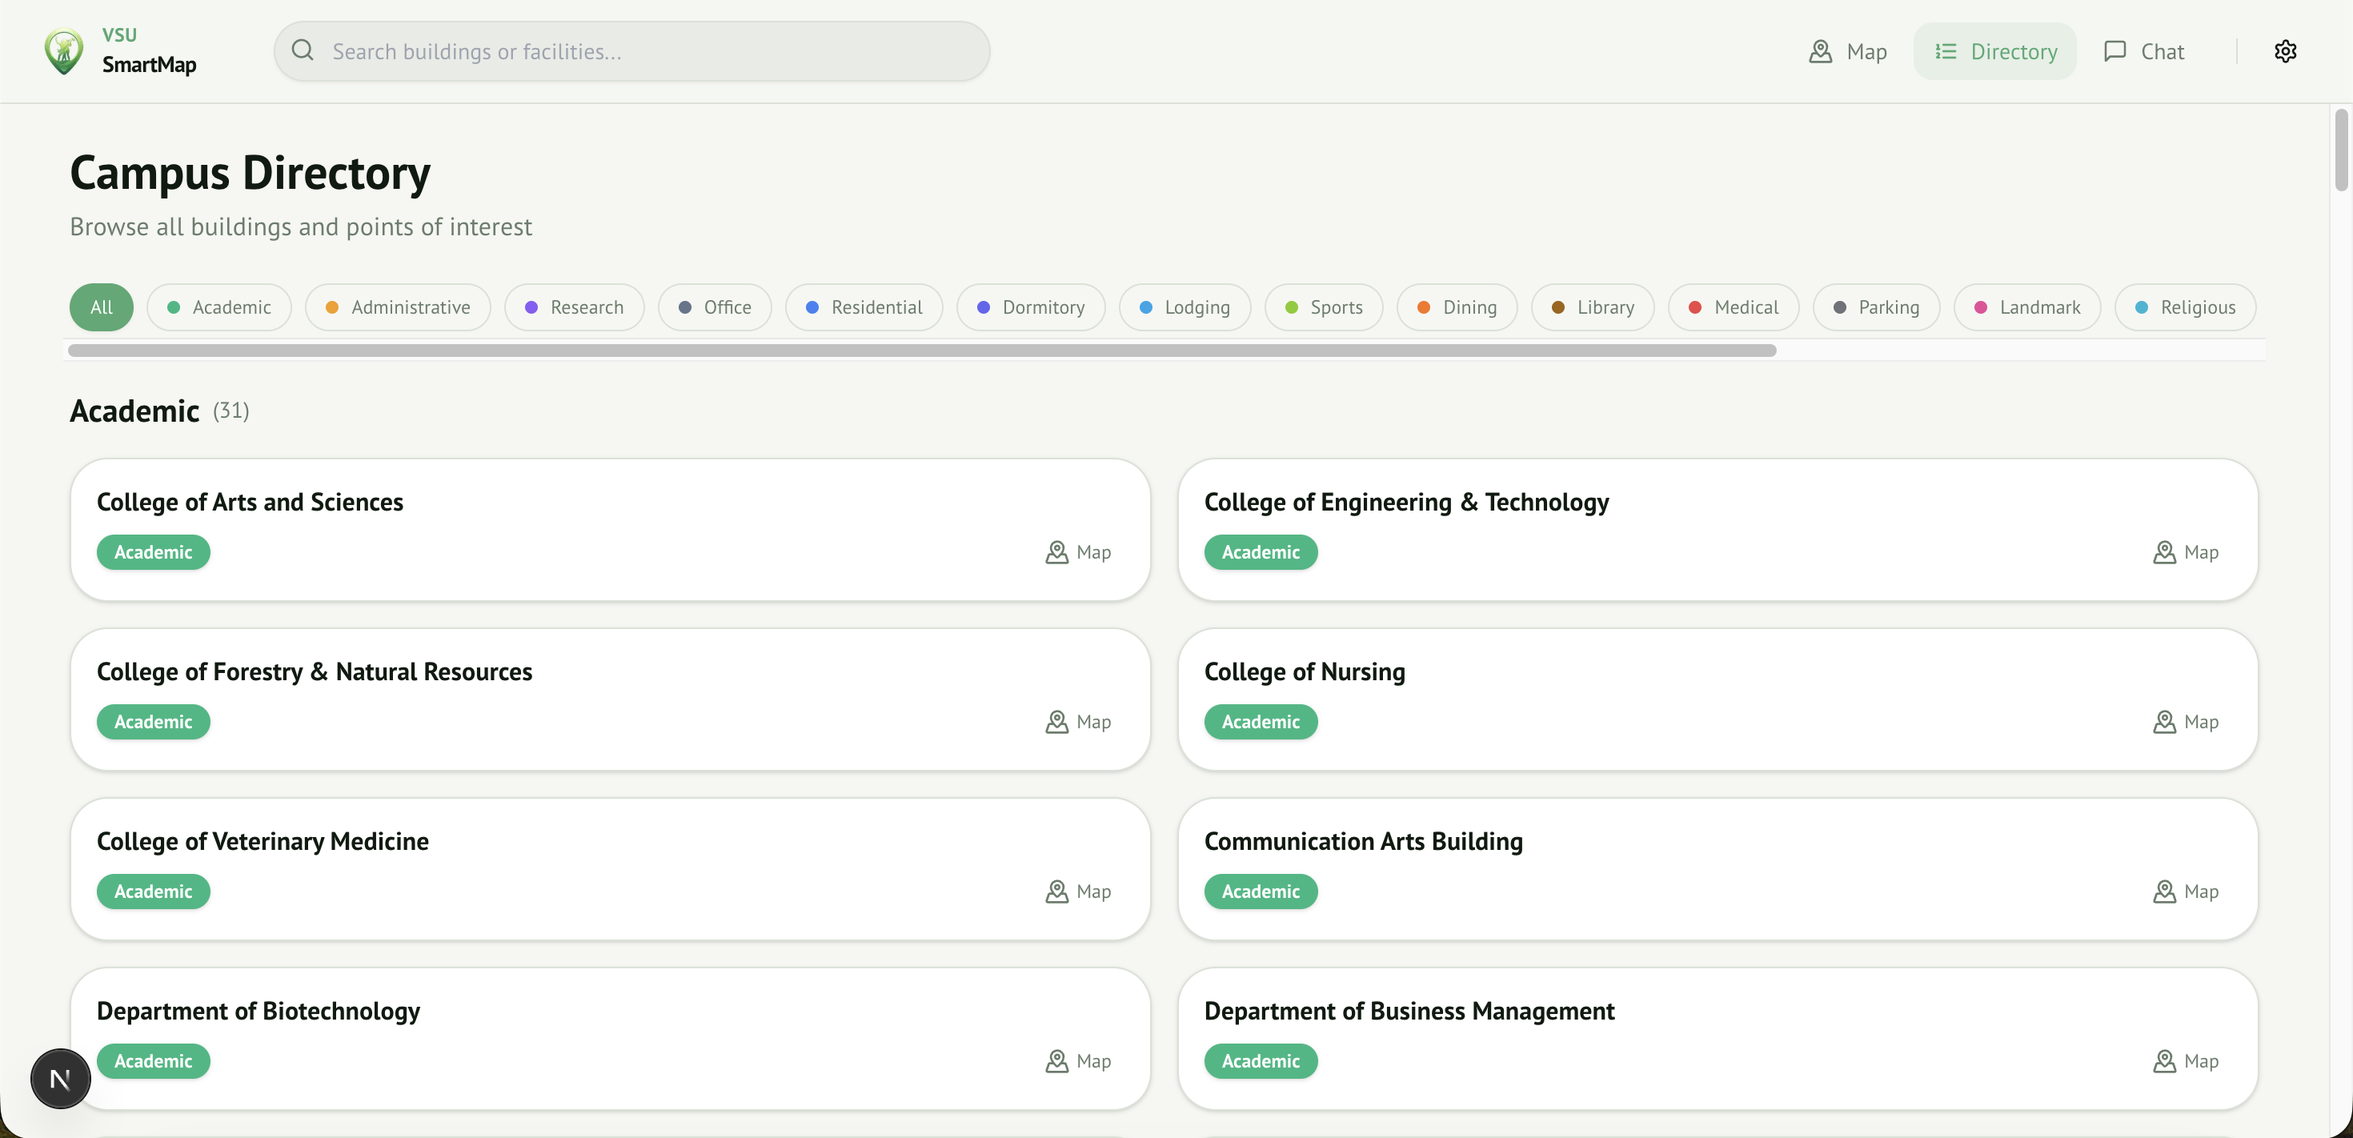
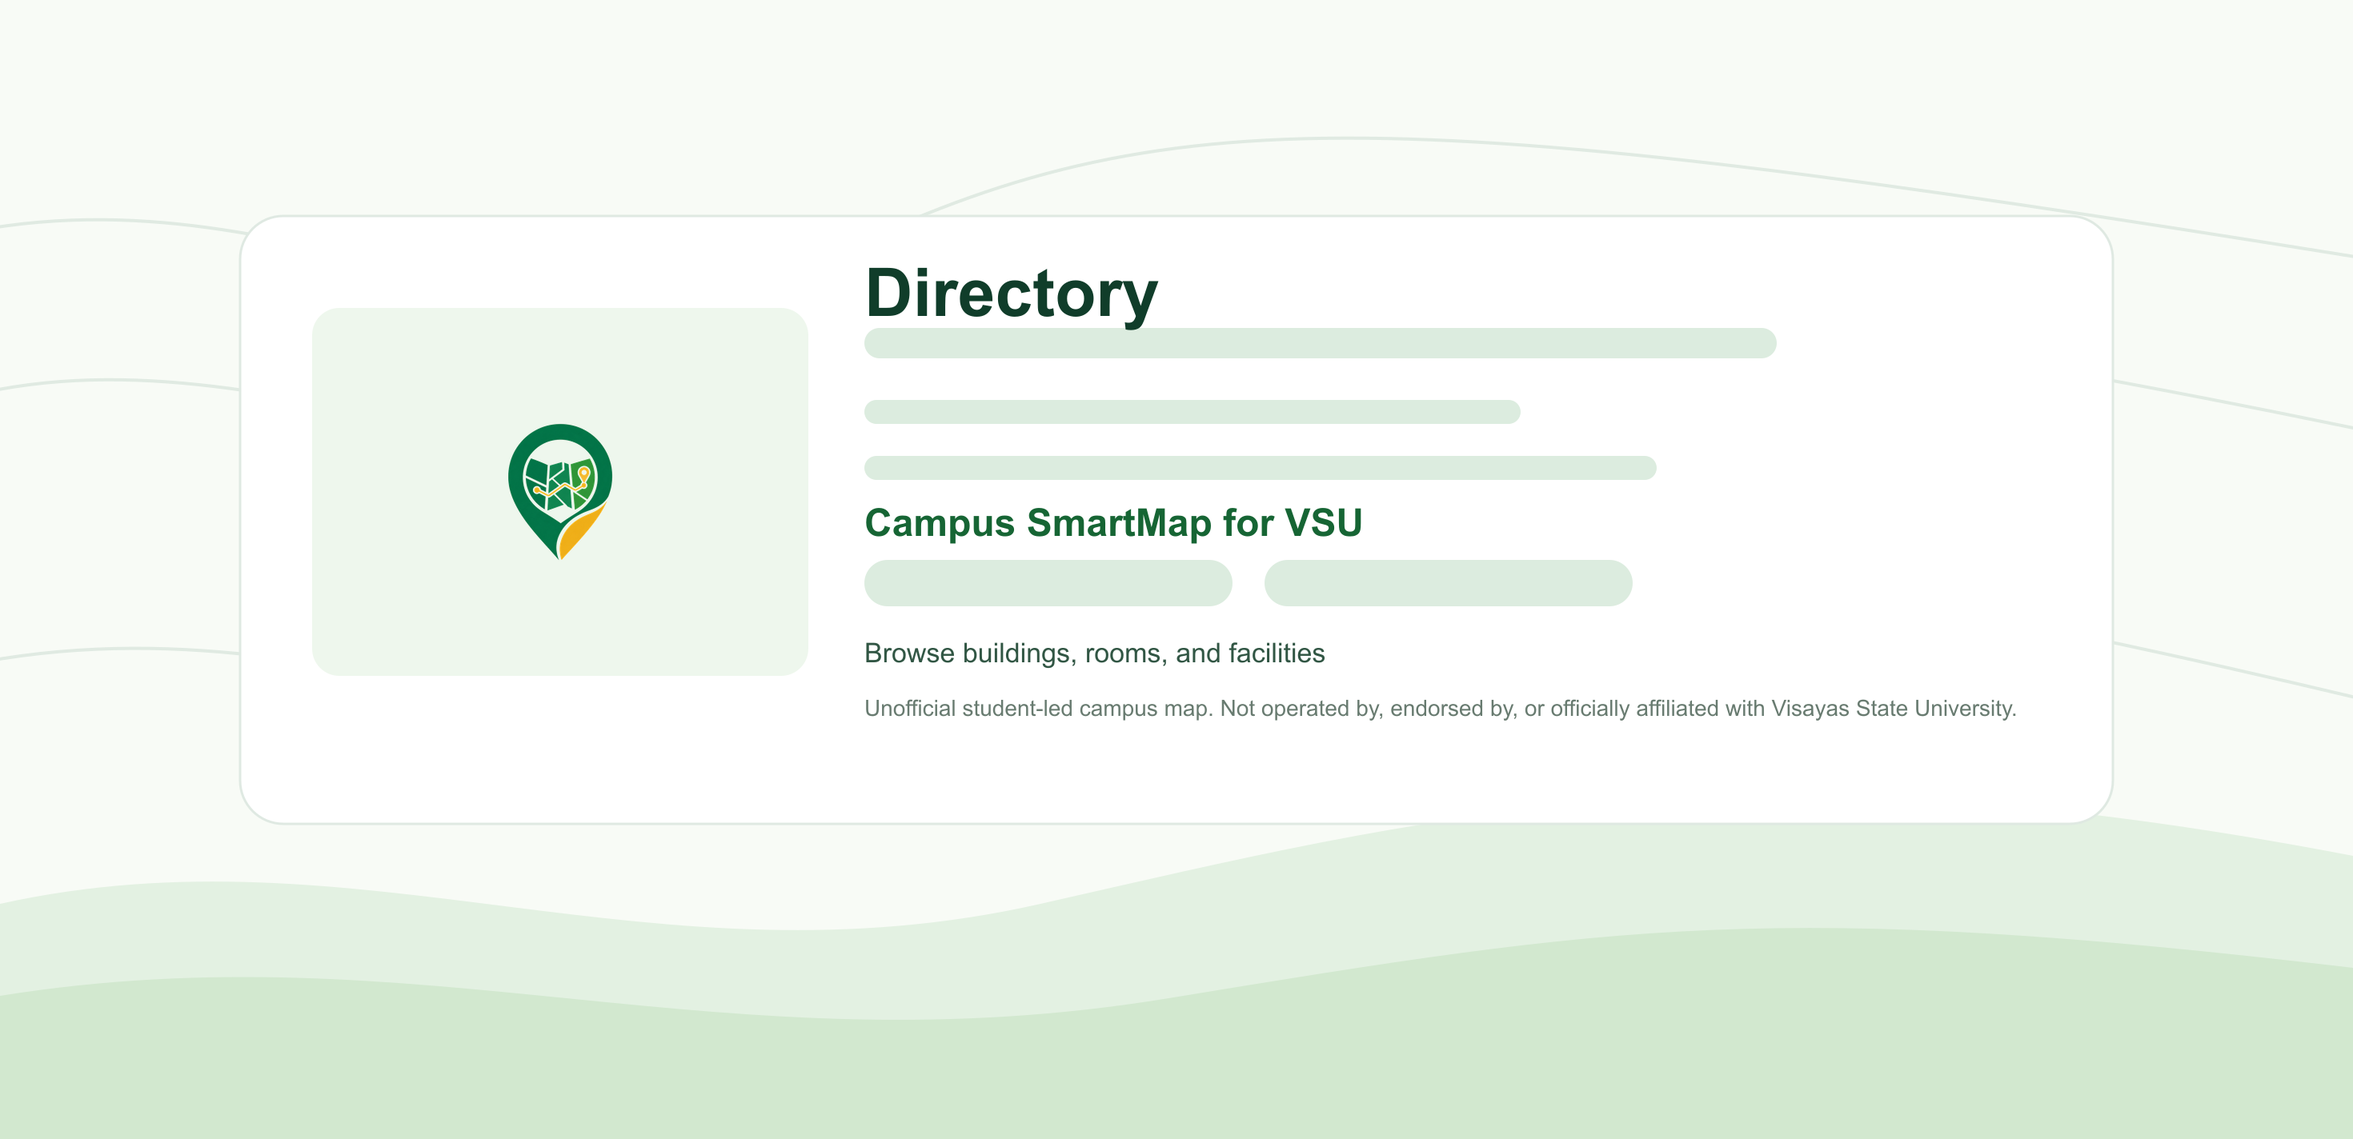
chore: clarify unofficial campus branding

diff --git a/app/(student)/info/page.tsx b/app/(student)/info/page.tsx
@@ -4,8 +4,8 @@ import { ScrollArea } from "@/components/ui/scroll-area";
 import { Mail, Github } from "lucide-react";
 
 export const metadata = {
-  title: "Information | VSU SmartMap",
-  description: "About VSU SmartMap, FAQ, Terms, and Privacy Policy.",
+  title: "Information | Campus SmartMap for VSU",
+  description: "About Campus SmartMap for VSU, FAQ, Terms, and Privacy Policy.",
 };
 
 export default function InfoPage() {
@@ -14,7 +14,7 @@ export default function InfoPage() {
       <div className="space-y-4 text-center">
         <h1 className="text-3xl font-bold tracking-tighter md:text-4xl">Information Hub</h1>
         <p className="mx-auto max-w-[700px] text-muted-foreground">
-          Learn more about the VSU SmartMap project, our mission, and legal policies.
+          Learn more about this unofficial campus map project, its purpose, and legal policies.
         </p>
       </div>
 
@@ -33,16 +33,16 @@ export default function InfoPage() {
         <TabsContent value="about">
           <Card>
             <CardHeader>
-              <CardTitle>About VSU SmartMap</CardTitle>
+              <CardTitle>About Campus SmartMap</CardTitle>
               <CardDescription>
                 Navigating Visayas State University made easy.
               </CardDescription>
             </CardHeader>
             <CardContent className="space-y-4 text-sm leading-relaxed text-muted-foreground">
               <p>
-                VSU SmartMap is a dedicated campus navigation and facility management system designed
-                specifically for the Visayas State University community. Our goal is to make finding
-                classrooms, offices, and amenities as simple as possible for students, faculty, and visitors.
+                Campus SmartMap for VSU is an unofficial student-led campus navigation and facility
+                management system built for the Visayas State University community. It is not an
+                official Visayas State University platform, website, or service.
               </p>
               <h3 className="text-foreground font-semibold">Key Features</h3>
               <ul className="list-disc pl-5 space-y-1">
@@ -80,7 +80,7 @@ export default function InfoPage() {
                 <div className="space-y-2">
                   <h3 className="font-semibold text-foreground">Can I use the map offline?</h3>
                   <p className="text-sm text-muted-foreground">
-                    Yes! VSU SmartMap is a Progressive Web App (PWA). Once you visit the site, map tiles and
+                    Yes! Campus SmartMap is a Progressive Web App (PWA). Once you visit the site, map tiles and
                     facility data for recent areas are cached for offline use.
                   </p>
                 </div>
@@ -96,8 +96,9 @@ export default function InfoPage() {
                 <div className="space-y-2">
                   <h3 className="font-semibold text-foreground">Is this official?</h3>
                   <p className="text-sm text-muted-foreground">
-                    This is a student-led initiative to improve campus navigation. While we aim for accuracy,
-                    please verify critical information with university officials.
+                    No. This is a student-led initiative to improve campus navigation. It is not operated by,
+                    endorsed by, or officially affiliated with Visayas State University. Please verify critical
+                    information with university officials.
                   </p>
                 </div>
               </div>
@@ -115,7 +116,7 @@ export default function InfoPage() {
             <CardContent className="space-y-4 text-sm text-muted-foreground h-[400px]">
               <ScrollArea className="h-full pr-4">
                 <p className="mb-4">
-                  Welcome to VSU SmartMap. By accessing or using our website, you agree to be bound by these terms.
+                  Welcome to Campus SmartMap for VSU. By accessing or using our website, you agree to be bound by these terms.
                 </p>
                 <h3 className="text-foreground font-semibold mb-2">1. Acceptable Use</h3>
                 <p className="mb-4">
@@ -130,7 +131,7 @@ export default function InfoPage() {
                 <h3 className="text-foreground font-semibold mb-2">3. Disclaimer</h3>
                 <p className="mb-4">
                   The map data is provided &quot;as is&quot;. We do not guarantee the absolute accuracy of locations or facility details.
-                  Always exercise personal judgment when navigating.
+                  Always exercise personal judgment when navigating. Campus SmartMap for VSU is not an official Visayas State University service.
                 </p>
                 <h3 className="text-foreground font-semibold mb-2">4. Changes to Terms</h3>
                 <p className="mb-4">

diff --git a/lib/ai/prompts/campus-assistant.ts b/lib/ai/prompts/campus-assistant.ts
@@ -1,13 +1,13 @@
 import { FACILITY_CATEGORIES } from "@/lib/types/facility";
 
-export const CAMPUS_ASSISTANT_PROMPT = `You are the **VSU SmartMap Campus Assistant**, an AI guide for the Visayas State University (VSU) main campus. Your main goal is to help students and visitors quickly find campus locations and understand where they are in relation to important landmarks.
+export const CAMPUS_ASSISTANT_PROMPT = `You are the **Campus SmartMap Assistant for VSU**, an AI guide for the Visayas State University (VSU) main campus. Your main goal is to help students and visitors quickly find campus locations and understand where they are in relation to important landmarks.
 
 ---
 
 ## 1. Core Behavior
 
 - Always prioritize **campus-related questions**: buildings, offices, classrooms, dorms, canteens, facilities, and basic campus info.
-- If the user asks about something **not related to the campus**, you may answer briefly, but gently steer the conversation back to how you can help with the VSU SmartMap.
+- If the user asks about something **not related to the campus**, you may answer briefly, but gently steer the conversation back to how you can help with Campus SmartMap.
 - Treat every query as coming from a real VSU student, visitor, or staff member who might be unfamiliar with the campus.
 
 ---
@@ -32,9 +32,10 @@ export const CAMPUS_ASSISTANT_PROMPT = `You are the **VSU SmartMap Campus Assist
 
 ## 3. Scope of Knowledge About the Project
 
-- You are part of the **VSU SmartMap Web** project.
+- You are part of the **Campus SmartMap for VSU** project.
+- This is an unofficial student-led project. Do not claim that it is operated by, endorsed by, or officially affiliated with Visayas State University.
 - If the user asks who created the project or assistant:
-  - Explain that it was created and developed by **Vj F. Mabansag**, a Third Year BS Computer Science student at **Visayas State University**.
+  - Explain that it was created and developed by **Vj F. Mabansag**, a BS Computer Science student at **Visayas State University**, as an unofficial student-led campus map.
 - You may briefly answer high-level questions about:
   - What the project does (interactive campus map + assistant).
   - Its purpose (to help students and visitors navigate the campus).
@@ -206,12 +207,12 @@ Example phrasing (Taglish):
 If the user asks:
 
 - "Ano ka?" / "What can you do?"  
-  - Explain that you are the VSU SmartMap Campus Assistant that:
+  - Explain that you are the Campus SmartMap Assistant for VSU that:
     - Helps find buildings and facilities.
     - Gives landmark-based guidance.
     - Answers simple questions about the campus map.
 - "Sino gumawa sa'yo?" / "Who created this project?"  
-  - Answer that you are part of the VSU SmartMap project created by **Vj F. Mabansag** (BS Computer Science, Visayas State University).
+  - Answer that you are part of the unofficial Campus SmartMap for VSU project created by **Vj F. Mabansag** (BS Computer Science, Visayas State University).
 
 Keep these explanations to 1 short paragraph.
 

diff --git a/app/layout.tsx b/app/layout.tsx
@@ -9,7 +9,12 @@ import { MapStyleProvider } from "@/lib/context/map-style-context";
 import Script from "next/script";
 import { Analytics } from "@vercel/analytics/react";
 import { SyncProvider } from "@/components/providers/sync-provider";
+import { ProjectDisclaimerDialog } from "@/components/project-disclaimer-dialog";
 import "./globals.css";
+
+const siteTitle = "Campus SmartMap for VSU";
+const siteDescription =
+  "Unofficial student-led campus map for Visayas State University, with building search, facility details, and campus navigation help.";
 
 const defaultUrl = process.env.VERCEL_URL
   ? `https://${process.env.VERCEL_URL}`
@@ -27,19 +32,19 @@ export const viewport: Viewport = {
 export const metadata: Metadata = {
   metadataBase: new URL(defaultUrl),
   title: {
-    default: "VSU SmartMap",
-    template: "%s | VSU SmartMap",
+    default: siteTitle,
+    template: `%s | ${siteTitle}`,
   },
-  description:
-    "Interactive campus map for Visayas State University. Find buildings, facilities, and get directions with AI-powered assistance.",
+  description: siteDescription,
   manifest: "/manifest.json",
   appleWebApp: {
     capable: true,
     statusBarStyle: "default",
-    title: "VSU SmartMap",
+    title: siteTitle,
   },
   icons: {
     icon: [
+      { url: "/favicon.ico", sizes: "any" },
       { url: "/icons/icon-192x192.png", sizes: "192x192", type: "image/png" },
       { url: "/icons/icon-512x512.png", sizes: "512x512", type: "image/png" },
     ],
@@ -49,24 +54,23 @@ export const metadata: Metadata = {
     type: "website",
     locale: "en_US",
     url: defaultUrl,
-    title: "VSU SmartMap",
-    description: "Interactive campus map for Visayas State University. Find buildings, facilities, and get directions with AI-powered assistance.",
-    siteName: "VSU SmartMap",
+    title: siteTitle,
+    description: siteDescription,
+    siteName: siteTitle,
     images: [
       {
         url: "/og-image.png",
         width: 1200,
         height: 630,
-        alt: "VSU SmartMap preview showing the campus map and search",
+        alt: "Campus SmartMap for VSU preview with an unofficial student-led campus map disclaimer",
       },
     ],
   },
   twitter: {
     card: "summary_large_image",
-    title: "VSU SmartMap",
-    description: "Interactive campus map for Visayas State University. AI-powered navigation and facility directory.",
+    title: siteTitle,
+    description: siteDescription,
     images: ["/og-image.png"],
-    creator: "@VSU",
   },
   verification: {
     google: "QEaVt0p58N8prtIVnsV9aIZV3Ezp_Q1JycBe2A81hR8",
@@ -97,6 +101,7 @@ export default function RootLayout({
               <Toaster />
               <ServiceWorkerRegistration />
               <SkipLink />
+              <ProjectDisclaimerDialog />
               {children}
             </SyncProvider>
             <Analytics />

diff --git a/components/project-disclaimer-dialog.tsx b/components/project-disclaimer-dialog.tsx
@@ -1,0 +1,56 @@
+"use client";
+
+import { useEffect, useState } from "react";
+import {
+  Dialog,
+  DialogContent,
+  DialogDescription,
+  DialogFooter,
+  DialogHeader,
+  DialogTitle,
+} from "@/components/ui/dialog";
+import { Button } from "@/components/ui/button";
+
+export function ProjectDisclaimerDialog() {
+  const [open, setOpen] = useState(false);
+
+  useEffect(() => {
+    const timer = window.setTimeout(() => setOpen(true), 250);
+    return () => window.clearTimeout(timer);
+  }, []);
+
+  const dismiss = () => {
+    setOpen(false);
+  };
+
+  return (
+    <Dialog open={open} onOpenChange={(next) => (next ? setOpen(true) : dismiss())}>
+      <DialogContent className="mx-4 max-w-lg gap-5 p-5 sm:p-6">
+        <DialogHeader>
+          <DialogTitle>A quick note</DialogTitle>
+          <DialogDescription className="space-y-3 pt-1 leading-6">
+            <span className="block">
+              Campus SmartMap for VSU is not owned, operated, or endorsed by
+              Visayas State University. Wala ni nako gi-present as an official
+              university project.
+            </span>
+            <span className="block">
+              I built it as a non-profit student project to help students find
+              places on campus. I spent my own time and money on it.
+            </span>
+            <span className="block">
+              I was told university admin may review it for possible copyright
+              concerns. If this project gets taken down, sorry daan. Ako ang
+              accountable for not asking the university first.
+            </span>
+          </DialogDescription>
+        </DialogHeader>
+        <DialogFooter>
+          <Button type="button" onClick={dismiss}>
+            I understand
+          </Button>
+        </DialogFooter>
+      </DialogContent>
+    </Dialog>
+  );
+}

diff --git a/components/app-header.tsx b/components/app-header.tsx
@@ -21,18 +21,18 @@ export function AppHeader({ tabsSlot }: AppHeaderProps) {
         <Link
           href="/"
           className="flex items-center gap-2 transition hover:opacity-80 shrink-0"
-          aria-label="VSU SmartMap home"
+          aria-label="Campus SmartMap for VSU home"
         >
           <Image
             src="/icons/icon-192x192.png"
-            alt="VSU SmartMap"
+            alt="Campus SmartMap for VSU"
             width={32}
             height={32}
             className="rounded-lg"
             priority
           />
           <div className="flex flex-col leading-none hidden sm:flex">
-            <span className="text-xs font-bold text-primary tracking-wide">VSU</span>
+            <span className="text-xs font-bold text-primary tracking-wide">Campus</span>
             <span className="text-sm font-extrabold text-foreground tracking-tight">SmartMap</span>
           </div>
         </Link>

diff --git a/lib/db.ts b/lib/db.ts
@@ -16,14 +16,14 @@ export interface OfflineAction {
   timestamp: number;
 }
 
-export class VSUDatabase extends Dexie {
+export class CampusMapDatabase extends Dexie {
   rooms!: Table<RoomRowWithFacility, string>;
   facilities!: Table<Facility, string>;
   offline_queue!: Table<OfflineAction, number>;
   cache_meta!: Table<CacheMetaEntry, CacheMetaKey>;
 
   constructor() {
-    super("VSUSmartMapDB");
+    super("CampusSmartMapDB");
     this.version(1).stores({
       rooms: "++id, id, name, room_code, facility_id",
       facilities: "++id, id, name",
@@ -45,5 +45,7 @@ export class VSUDatabase extends Dexie {
   }
 }
 
-export const db: VSUDatabase =
-  typeof window === "undefined" ? (null as unknown as VSUDatabase) : new VSUDatabase();
+export const db: CampusMapDatabase =
+  typeof window === "undefined"
+    ? (null as unknown as CampusMapDatabase)
+    : new CampusMapDatabase();

diff --git a/components/chat/chat-view.tsx b/components/chat/chat-view.tsx
@@ -120,7 +120,7 @@ export function ChatView() {
               <DialogTitle>AI Assistant Disclaimer</DialogTitle>
             </div>
             <DialogDescription className="pt-2">
-              This AI assistant uses advanced language models to help you navigate VSU.
+              This AI assistant uses language models to help with campus navigation.
               <br /><br />
               <strong>Please note:</strong> While we strive for accuracy, the AI may occasionally produce incorrect information. Always verify critical details like building locations or office hours with official university sources.
             </DialogDescription>

diff --git a/components/map/user-location-control.tsx b/components/map/user-location-control.tsx
@@ -97,7 +97,7 @@ export function UserLocationControl({ className }: UserLocationControlProps) {
       <ConfirmDialog
         open={showPermissionDialog}
         title="Enable Location Access?"
-        description="VSU SmartMap would like to access your location to show where you are on campus. Your location data stays on your device and is not stored or shared."
+        description="Campus SmartMap would like to access your location to show where you are on campus. Your location data stays on your device and is not stored or shared."
         confirmLabel="Enable Location"
         cancelLabel="Not Now"
         confirmVariant="default"

diff --git a/components/chat/chat-welcome.tsx b/components/chat/chat-welcome.tsx
@@ -19,7 +19,7 @@ export function ChatWelcome({
       </div>
 
       <div className="space-y-2">
-        <h2 className="text-xl font-semibold">Welcome to VSU SmartMap</h2>
+        <h2 className="text-xl font-semibold">Welcome to Campus SmartMap</h2>
         <p className="text-muted-foreground">
           Ask me about any location on campus. I can help you find buildings,
           offices, and facilities.

diff --git a/components/admin/admin-sidebar.tsx b/components/admin/admin-sidebar.tsx
@@ -33,7 +33,7 @@ function SidebarContent({ pathname, onClose }: { pathname: string; onClose: () =
         <div className="flex items-center gap-3">
           <Image
             src="/icons/icon-192x192.png"
-            alt="VSU SmartMap"
+            alt="Campus SmartMap for VSU"
             width={40}
             height={40}
             className="rounded-lg"

diff --git a/components/chat/chat-avatar.tsx b/components/chat/chat-avatar.tsx
@@ -20,7 +20,7 @@ export function ChatAvatar({ role }: ChatAvatarProps) {
       {isAssistant ? (
         <Image
           src="/icons/icon-192x192.png"
-          alt="VSU SmartMap assistant"
+          alt="Campus SmartMap for VSU assistant"
           width={20}
           height={20}
           className="h-5 w-5"

diff --git a/app/globals.css b/app/globals.css
@@ -21,7 +21,7 @@
 
 @layer base {
   :root {
-    /* VSU Light Theme - Converted from hex codes in tailwind.config.ts */
+/* Campus light theme - Converted from hex codes in tailwind.config.ts */
     --background: 84 20% 96%;
     /* #F5F7F2 */
     --foreground: 129 30% 8%;
